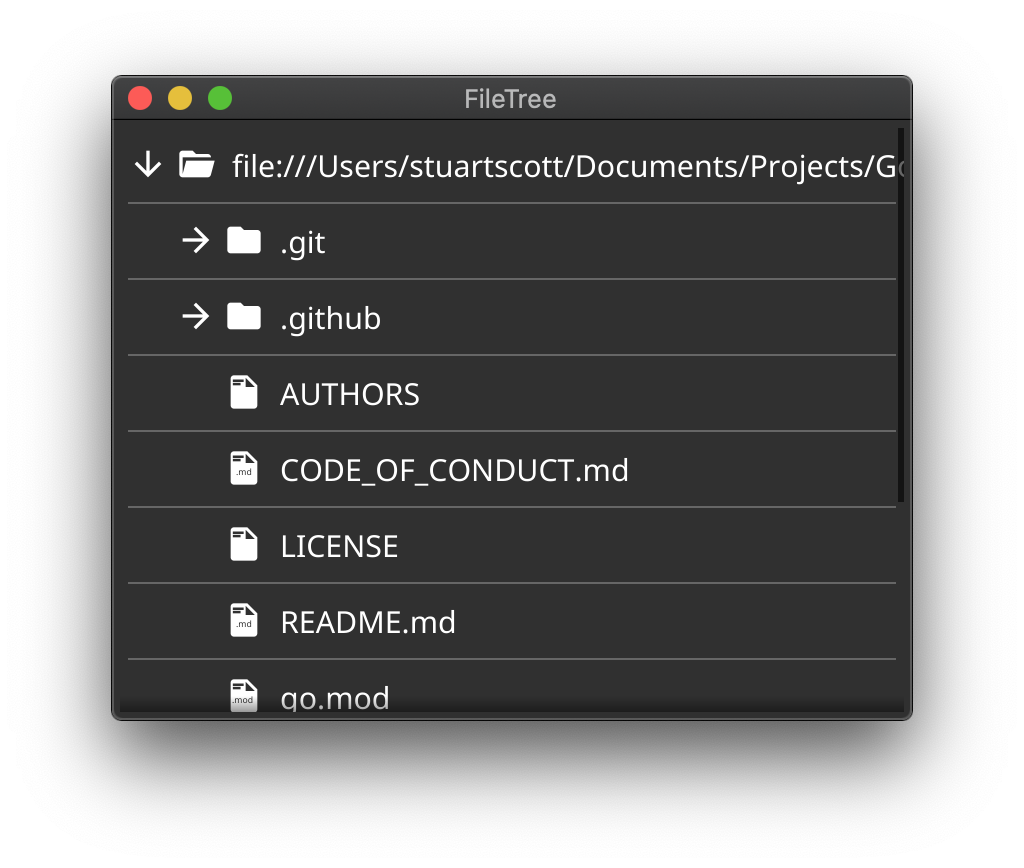
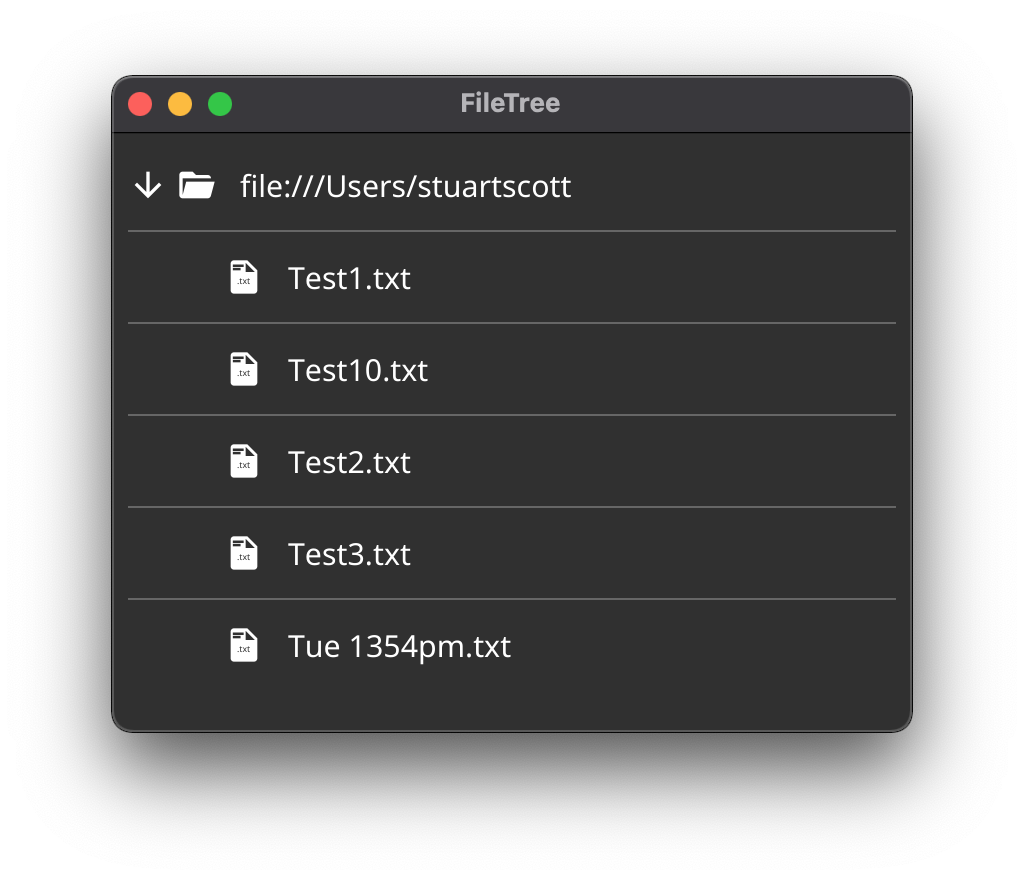
Update Filetree (#10)
* Update File Tree Screenshot

* Simplify File Tree Snippet

Changed region(s): [[0.0938, 0.0622, 0.9062, 0.8399]]

diff --git a/README.md b/README.md
@@ -39,35 +39,13 @@ gif.Start()
 An extension of widget.Tree for displaying a file system hierarchy.
 
 ```go
-package main
-
-import (
-    "fyne.io/fyne/v2"
-    "fyne.io/fyne/v2/app"
-    "fyne.io/fyne/v2/storage"
-    "fyne.io/x/fyne/widget"
-    "os"
-)
-
-func main() {
-    a := app.New()
-    w := a.NewWindow("FileTree")
-    dir, err := os.Getwd()
-    if err != nil {
-        fyne.LogError("Could not get current working directory", err)
-        return
-    }
-    tree := widget.NewFileTree(storage.NewFileURI(dir))
-    tree.Filter = storage.NewExtensionFileFilter([]string{".txt"}) // Filter files
-    tree.Sorter = func(u1, u2 fyne.URI) bool {
-        return u1.String() < u2.String() // Sort alphabetically
-    }
-    w.SetContent(tree)
-    w.Resize(fyne.NewSize(400, 300))
-    w.ShowAndRun()
+tree := widget.NewFileTree(storage.NewFileURI("~")) // Start from home directory
+tree.Filter = storage.NewExtensionFileFilter([]string{".txt"}) // Filter files
+tree.Sorter = func(u1, u2 fyne.URI) bool {
+    return u1.String() < u2.String() // Sort alphabetically
 }
 ```
 
 <p align="center" markdown="1" style="max-width: 100%">
-  <img src="img/widget-filetree.png" width="1024" height="868" alt="FileTree Widget" style="max-width: 100%" />
+  <img src="img/widget-filetree.png" width="1024" height="880" alt="FileTree Widget" style="max-width: 100%" />
 </p>
